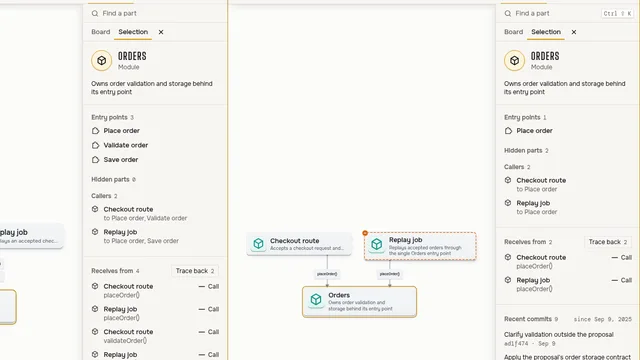
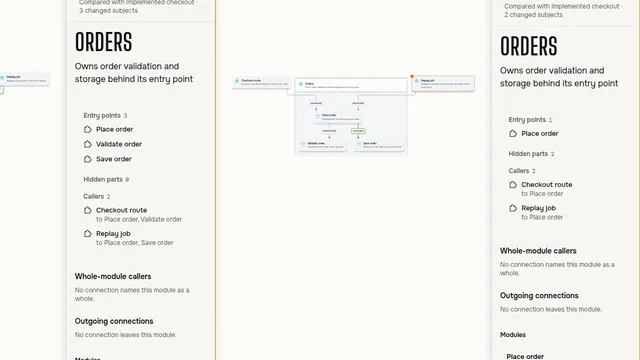
refactor(readme): publish canonical architecture demonstrations

diff --git a/scripts/readme-assets/narrated.ts b/scripts/readme-assets/narrated.ts
@@ -1,4 +1,4 @@
-// The narrated videos: one walkthrough recorded by `archboard semantic record`, narrated by the
+// The narrated videos: one walkthrough recorded by `archboard model record`, narrated by the
 // Codex voice, on a server that has the machine's Archboard Codex sign-in. The MP4 stays in the
 // scratch directory for a person to attach to the README's player: GitHub plays a video with
 // sound only from a user attachment, uploaded through its editor. The README's index thumbnail is
@@ -6,6 +6,8 @@
 
 import { existsSync, renameSync, rmSync } from "node:fs";
 import { join } from "node:path";
+
+import { ArchitectureCheckpointRetainSchema } from "@archboard/board/model";
 
 import { readTalk } from "@archboard/walkthrough/recorder";
 import { TALK_SAMPLE_RATE, type Talk } from "@archboard/walkthrough/talk";
@@ -21,8 +23,11 @@ import {
 	type MakeContext,
 	type Producer,
 	type TrackedVault,
+	type TakeServer,
 	// oxlint-disable-next-line archboard/absolute-imports -- scripts/ has no # imports; sibling imports stay relative
 } from "./kit.ts";
+// oxlint-disable-next-line archboard/absolute-imports -- scripts/ has no # imports; sibling imports stay relative
+import { readModel, modelResult } from "./model-authoring.ts";
 
 /** The lower-left 16:9 part of a 1920x1080 recording, where the step's caption sits. */
 const CAPTION_CROP: Crop = { x: 0, y: 360, width: 1280, height: 720 };
@@ -32,8 +37,8 @@ interface NarratedSpec {
 	/** The asset's name, which also names the MP4. */
 	readonly name: string;
 	readonly vault: TrackedVault;
-	readonly board: string;
-	readonly variant?: string;
+	/** A retained proposal, or omit to capture current architecture before recording. */
+	readonly checkpoint?: string;
 	readonly walkthrough: string;
 	/** The index thumbnail: the step it shows, a moment into it. */
 	readonly thumbnail?: { readonly file: string; readonly step: number };
@@ -85,23 +90,38 @@ function videoOf(spec: NarratedSpec): string {
 }
 
 /**
- * The CLI arguments that pick the walkthrough.
- * @param spec The video.
- * @returns The board, the variant and the walkthrough.
+ * Capture current architecture unless the recipe already names an immutable proposal.
+ * @param server The copied vault and its restored archive.
+ * @param spec The exact recording recipe.
+ * @returns The checkpoint that the recorder must read.
  */
-function walkthroughArguments(spec: NarratedSpec): readonly string[] {
-	return [
-		spec.board,
-		...(spec.variant === undefined ? [] : ["--variant", spec.variant]),
-		"--walkthrough",
-		spec.walkthrough,
-	];
+async function recordingCheckpoint(server: TakeServer, spec: NarratedSpec): Promise<string> {
+	if (spec.checkpoint !== undefined) return spec.checkpoint;
+	const model = await readModel(server);
+	const retained = ArchitectureCheckpointRetainSchema.parse(
+		modelResult(
+			await server.cli([
+				"model",
+				"retain",
+				"--operation-id",
+				crypto.randomUUID(),
+				"--writer",
+				"readme",
+				"--expect-revision",
+				model.revision.digest,
+				"--doing",
+				"Retain the narrated README reading",
+			]),
+		),
+	);
+	if (!retained.success) throw new Error(JSON.stringify(retained));
+	return retained.checkpoint.id;
 }
 
 /**
  * Record the walkthrough, or render the talk its last recording kept again, and cut what the README
  * shows from the video. A replay draws the frames again with today's renderer and spends no Codex
- * usage, since the voice and the board are in the kept talk. A new recording is made beside the kept
+ * usage, because the kept talk contains the voice and architecture. A new recording is made beside the kept
  * talk and replaces it only once it is whole, so a refused or failed recording keeps the old one.
  * @param spec The video.
  * @param context What the producer is given.
@@ -123,11 +143,14 @@ async function record(spec: NarratedSpec, context: MakeContext): Promise<void> {
 	await holding(server.stop, async () => {
 		await server.cli(
 			context.replay
-				? ["semantic", "replay", talk, "--out", video]
+				? ["model", "replay", talk, "--out", video]
 				: [
-						"semantic",
+						"model",
 						"record",
-						...walkthroughArguments(spec),
+						"--checkpoint",
+						await recordingCheckpoint(server, spec),
+						"--walkthrough",
+						spec.walkthrough,
 						"--theme",
 						"dark",
 						"--talk",
@@ -150,7 +173,6 @@ async function record(spec: NarratedSpec, context: MakeContext): Promise<void> {
  * @returns The producer.
  */
 function narratedProducer(spec: NarratedSpec): Producer {
-	const variant = spec.variant === undefined ? "" : ` (${spec.variant})`;
 	return {
 		kind: "narrated",
 		codex: true,
@@ -159,7 +181,7 @@ function narratedProducer(spec: NarratedSpec): Producer {
 		needs: ["chromium", "ffmpeg", "codex"],
 		plan: [
 			`Start an Archboard server over a copy of ${spec.vault} that uses this machine's Archboard Codex sign-in unless it is a --replay, which uses none.`,
-			`Record "${spec.walkthrough}" on "${spec.board}"${variant} with archboard semantic record --theme dark, narrated by the Codex voice; this spends Codex usage. With --replay, render the talk that the last recording kept again with archboard semantic replay instead, which spends none. The MP4 stays in the scratch directory, to attach to the README by hand with gh attach.`,
+			`Record "${spec.walkthrough}" from its exact retained canonical checkpoint with archboard model record --theme dark, narrated by the Codex voice; this spends Codex usage. With --replay, render the talk that the last recording kept again with archboard model replay instead, which spends none. The MP4 stays in the scratch directory, to attach to the README by hand with gh attach.`,
 			...(spec.thumbnail === undefined
 				? []
 				: [`Cut ${spec.thumbnail.file} from step ${spec.thumbnail.step + 1} and its caption.`]),

diff --git a/scripts/readme-assets/evidence.ts b/scripts/readme-assets/evidence.ts
@@ -97,9 +97,10 @@ async function selectPart(page: Page, id: string, pane = "A"): Promise<void> {
  * @param pane The pane that owns the inspector.
  */
 async function pinInspector(page: Page, pane = "A"): Promise<void> {
-	await page.click(
-		`[data-slot='pane-stage'][data-pane='${pane}'] [data-slot='semantic-sidebar-pin']`,
-	);
+	const control = `[data-slot='pane-stage'][data-pane='${pane}'] [data-slot='semantic-sidebar-pin']`;
+	if (await page.evaluate(`document.querySelector(${JSON.stringify(control)}) !== null`)) {
+		await page.click(control);
+	}
 	await Bun.sleep(500);
 	await fit(page);
 	await Bun.sleep(900);
@@ -134,6 +135,7 @@ async function filmCode(server: TakeServer, browser: Browser, fixture: Fixture):
 				`The example did not produce its resolved missing-call warning: ${checked.stderr}`,
 			);
 		await terminal.done(finding.code, finding.message, `${evidence.path}:${evidence.line}`);
+		await page.click("[data-pane='A'] [data-slot='semantic-sidebar-toggle']");
 		await page.waitFor(
 			"document.querySelector('[data-slot=code-warning-count]')?.getAttribute('data-count') === '1'",
 			"one visible code warning",

diff --git a/scripts/readme-assets/hero.ts b/scripts/readme-assets/hero.ts
@@ -181,12 +181,17 @@ const hero: Producer = {
 				});
 				const state = result.target.state!;
 				const compared = ArchitectureModelReadSchema.parse(
-					modelResult(await commands.cli(["model", "compare", "--state", state])),
+					modelResult(
+						await commands.cli(["model", "compare", "--state", state, "--against", "current"]),
+					),
 				);
 				if (!compared.success) throw new Error(JSON.stringify(compared));
-				const changed =
-					compared.comparison?.subjects.filter((subject) => subject.kind !== "unchanged").length ??
-					0;
+				if (compared.comparison === undefined)
+					throw new Error("The proposal comparison is missing.");
+				const changed = compared.comparison.subjects.filter(
+					(subject) => subject.kind !== "unchanged",
+				).length;
+				if (changed === 0) throw new Error("The authored proposal changes no subjects.");
 				await terminal.say(`${changed} subjects differ from current architecture.`);
 				await commands.cli(["browser", "show", MODEL, "--state", state, "--pane", "A"]);
 				await page.atRest();

diff --git a/scripts/readme-assets/assets.ts b/scripts/readme-assets/assets.ts
@@ -30,7 +30,6 @@ const PRODUCERS: Readonly<Record<string, Producer>> = {
 	explainer: narratedProducer({
 		name: "explainer",
 		vault: ".archboard/vault",
-		board: "Archboard",
 		walkthrough: "Read this board",
 	}),
 	plan,
@@ -41,8 +40,8 @@ const PRODUCERS: Readonly<Record<string, Producer>> = {
 	"pr-walkthrough": narratedProducer({
 		name: "pr-walkthrough",
 		vault: "examples/web-shop",
-		board: "Web shop",
-		variant: "Queued fulfilment",
+		// The portable example archive retains this exact Queued fulfilment reading.
+		checkpoint: "f4ae77d823d935570198b3c0be53dd1803db8aba",
 		walkthrough: "Why checkout stops waiting",
 		thumbnail: { file: "docs/readme/idx-voice.webp", step: 1 },
 	}),
@@ -55,7 +54,6 @@ const PRODUCERS: Readonly<Record<string, Producer>> = {
 	newcomer: narratedProducer({
 		name: "newcomer",
 		vault: "examples/web-shop",
-		board: "Inventory service",
 		walkthrough: "How stock is reserved",
 		thumbnail: { file: "docs/readme/idx-newcomer.webp", step: 4 },
 	}),

diff --git a/README.md b/README.md
@@ -18,7 +18,7 @@
 
 </div>
 
-<img alt="On the left: the commands that a coding agent runs for this request. It claims the Web shop board, branches a proposal, edits it and compares it with today. On the right: the browser pane shows the claim and then redraws the board as the proposal. It shows new parts in green and a moved call in orange. The removed timeout guard is a red ghost." src="https://github.com/user-attachments/assets/2380c2e3-cb45-4a3f-9efd-e246c848c5df" width="100%">
+<img alt="The CLI reads and claims the shop architecture, creates one proposal, releases its claim, and compares 41 changed subjects with current architecture. The browser shows the proposal with new modules in green and changed or removed relationships marked." src="https://github.com/user-attachments/assets/4ecfeda7-e742-4b4a-834c-6159053c8227" width="100%">
 
 <p align="center"><sub>Filmed live against a real Archboard server. The terminal on the left replays the commands an agent runs for this request, and each one ran against the server as shown. The pane on the right is the real browser, redrawing on every write. Nothing here was dragged into place.</sub></p>
 
@@ -63,11 +63,11 @@ A proposal starts with a map of what exists. Archboard brings code, module bound
 
 ### Find where the map and the code disagree
 
-Give each part a link to its file or a named function, class, or value. A relationship can cite the source that supports it. With `archboard check code`, your agent finds broken source links, relationships drawn backwards, and dependencies between mapped parts that the board leaves out.
+Give each part a link to its file or a named function, class, or value. A relationship can cite the source that supports it. With `archboard check code`, your agent finds broken source links, relationships drawn backwards, and dependencies between mapped parts that the architecture leaves out.
 
 Warnings mark the affected parts and relationships in the canvas. Select a warning to read the finding and open its source when available. Each piece of source evidence says whether analysis resolved it or matched it only by name.
 
-<img src="https://github.com/user-attachments/assets/04b20cce-5866-46d1-8557-3200f16b7800" width="100%" alt="The code check finds a resolved call from Place order to Save order that the example board leaves out. Selecting its warning opens the source evidence in the inspector. The terminal shows the actual call in the source file.">
+<img src="https://github.com/user-attachments/assets/a2281f7d-9678-47c7-a3fc-ae922012b189" width="100%" alt="The code check finds a resolved call from Place order to Save order that the example architecture leaves out. Selecting its warning opens the source evidence in the inspector. The terminal shows the actual call in the source file.">
 
 <p align="center"><sub>A small example checkout with real analysis results. The terminal replays the command and summarizes its answer. The live browser selects the warning, and the source excerpt shows the missing call.</sub></p>
 
@@ -79,30 +79,30 @@ A module's interface on the map is what its outside callers reach. Archboard sho
 
 Compare competing proposals side by side. The comparison lists interface changes before internal changes, so you can see which design asks more of its callers. The code check reports callers that reach parts the module does not expose. It identifies exposed names with no outside use in the checked code.
 
-<img src="https://github.com/user-attachments/assets/5a1d15cc-66e4-4927-95f2-b966026436ba" width="100%" alt="Two proposals for the same checkout example. Selecting Orders in each opens its interface inspector. Entry per job exposes three parts. One entry point exposes Place order and keeps two parts hidden.">
+<img src="https://github.com/user-attachments/assets/3720e0b1-d5d8-4a28-ae95-5d07ca006736" width="100%" alt="Two proposals for the same checkout example. Opening Orders in each reveals its interface. Entry per job exposes three parts. One entry point exposes Place order and keeps two parts hidden.">
 
 <p align="center"><sub>The same six parts, with different boundaries. Orders exposes three entry points on the left. On the right, one entry point keeps two internal parts hidden. Both inspectors come from the live browser.</sub></p>
 
 ### Read the change through the architecture
 
-Git records changes to files. Archboard maps their commits onto the parts of your system. See which parts change most often and which repeatedly change together, including pairs that the board does not connect. Pick a part to read its recent commits and the parts that change with it.
+Git records changes to files. Archboard maps their commits onto the parts of your system. See which parts change most often and which repeatedly change together, including pairs without an authored relationship. Pick a part to read its recent commits and the parts that change with it.
 
-Set a branch's commits against its proposal. See which parts the commits changed, which parts the plan named, and where the two differ. Your agent can spot changes to mapped parts outside the plan before it adopts the proposal. Archboard also reports commits to bound files since the board last described them, so you can choose what to inspect next.
+Set a branch's commits against its proposal. See which parts the commits changed, which parts the plan named, and where the two differ. Your agent can spot changes to mapped parts outside the plan before it adopts the proposal. Archboard also reports commits to bound files since the selected architecture described them, so you can choose what to inspect next.
 
-<img src="https://github.com/user-attachments/assets/dbe1c866-8f30-4693-adb1-11e2cd707df2" width="100%" alt="The inspector shows recent commits and a pair of parts that change together. The terminal reports seven shared commits for Validate order and Save order. A branch comparison then lists planned changes, changes outside the plan, and planned parts with no code change.">
+<img src="https://github.com/user-attachments/assets/522c8c86-1ff7-4315-9b30-3c926e733e08" width="100%" alt="The inspector shows recent commits and a pair of parts that change together. The terminal reports seven shared commits for Validate order and Save order. A branch comparison then lists planned changes, changes outside the plan, and planned parts with no code change.">
 
-<p align="center"><sub>Fixed example commits make this demonstration repeatable. Validate order and Save order change together in seven commits. The branch also changes Validate order outside the proposal. The terminal summarizes real Git analysis beside the live board.</sub></p>
+<p align="center"><sub>Fixed example commits make this demonstration repeatable. Validate order and Save order change together in seven commits. The branch also changes Validate order outside the proposal. The terminal summarizes real Git analysis beside the live architecture.</sub></p>
 
 ## Plan the next architecture with your agent
 
-See a change before anyone builds it. Ask your agent for one and you get a **proposal**: the same board, redrawn as its difference from what exists. New parts arrive green, changed ones orange, and removed ones stay on the page as red ghosts. A call that moves is shown as one change, not as a deletion beside an addition.
+See a change before anyone builds it. Ask your agent for one and you get a **proposal**: a proposed architecture, drawn against what exists. New parts arrive green, changed ones orange, and removed ones stay on the page as red ghosts. A call that moves is shown as one change, not as a deletion beside an addition.
 
-<img src="https://github.com/user-attachments/assets/8de02233-e1de-4266-933c-046095c2aa05" width="100%" alt="A board that nobody has built yet, marked not built, opened in two panes. The left pane turns into the Nightly batch proposal. The right pane turns into the Live events proposal. Both are marked against their shared starting point.">
+<img src="https://github.com/user-attachments/assets/d80b0379-ec7d-42ba-ba01-00107b98c3b0" width="100%" alt="An independent planning draft opens in two panes. The left pane turns into the Nightly batch proposal. The right pane turns into the Live events proposal. Both are marked against their shared starting point.">
 
-<p align="center"><sub>Two competing proposals for a recommendations service that does not exist yet, one per pane. The header names the proposal in the focused pane and says <code>not built</code>: nothing here pretends to exist before somebody adopts it.</sub></p>
+<p align="center"><sub>Two competing proposals for a recommendations service that does not exist yet, one per pane. Each header names its draft. Both compare against the same planning root, without adding the proposed service to current architecture.</sub></p>
 
-- **Competing options, side by side**. Branch two drafts from one starting point and open them in two panes. `archboard semantic compare` lists every part and relationship that differs.
-- **Honest about what exists**. A board for a system that nobody has built yet is marked `not built`. It stays that way until your agent adopts a proposal after it ships.
+- **Competing options, side by side**. Branch two drafts from one starting point and open them in two panes. `archboard model compare --state "Nightly batch" --against "Starting point"` reports the changes.
+- **Honest about what exists**. Planning drafts remain separate from current architecture. Your agent adopts a draft only after it ships.
 - **Proposals keep up**. When today's architecture changes under an open proposal, the proposal is brought up to date. Where both changed the same thing, the agent is asked to settle it. Neither side wins silently.
 
 ```text
@@ -130,7 +130,7 @@ Most diagrams show what changed. This one also remembers why. When a proposal sh
 A **walkthrough** is a short tour of a board that your agent writes: a few steps, each with a heading, a point, and the parts it is about. Press **Narrate** and the Codex voice explains each step as it reaches your screen. The camera glides to the parts that matter, and the rest fades back. Or let one command film the whole talk:
 
 ```bash
-archboard semantic record "Web shop" --variant "Queued fulfilment" --theme dark --out pr-128.mp4
+archboard model record --checkpoint <checkpoint-id> --walkthrough "Why checkout stops waiting" --theme dark --out pr-128.mp4
 gh pr comment 128 --attach pr-128.mp4 --body "A narrated walkthrough of this change."   # gh 2.99 or newer
 ```
 
@@ -138,7 +138,7 @@ gh pr comment 128 --attach pr-128.mp4 --body "A narrated walkthrough of this cha
 
 https://github.com/user-attachments/assets/025e7d76-2ad5-43b5-82d9-8a587994243f
 
-<p align="center"><sub>Each video is what <code>archboard semantic record</code> wrote.</sub></p>
+<p align="center"><sub>Each video is an Archboard recording.</sub></p>
 
 - **Pull-request videos**. Your agent maps the code before the change, branches a proposal for the pull request, and writes three to six steps for its reviewers. The talk runs one to three minutes, small enough to attach to the pull request.
 - **Paced by the voice**. Each time the voice finishes a step, the recording moves on. There is no timeline to edit and no silent slide.
@@ -152,7 +152,7 @@ Ask "what happens as a shopper pays?" and get the answer as a sequence diagram: 
   <img alt="Sequence diagram 'Place an order': the storefront posts an order. Place order loads the basket, starts a 10 second clock, reserves the items and charges the card. It writes the paid order and sends the receipt up to three times. Then it answers the storefront." src="docs/readme/sequence-light.svg" width="100%">
 </picture>
 
-<p align="center"><sub>An SVG drawn by <code>archboard semantic render "Web shop" --view "Place an order" --out place-an-order.svg</code>. The pulse that travels down the exchange is part of the file.</sub></p>
+<p align="center"><sub>An SVG drawn by <code>archboard model render --flow "Place an order" --grammar sequence --out place-an-order.svg</code>. The pulse that travels down the exchange is part of the file.</sub></p>
 
 ```text
 Add a sequence diagram of what happens when a shopper places an order, from the storefront to the receipt email.
@@ -175,9 +175,11 @@ I'm new here. Walk me through what happens to stock when a shopper presses Pay.
 
 ## Zoom from the system into a service
 
-One map, from the whole system down to the file. Boards link to boards: hover a part that has its own board and a tip offers to open it. Double-click and the view dives in, with a breadcrumb back. Parts are bound to their code. **Open code** takes you to a file or a named function or class in VS Code, Cursor, Zed or on GitHub. A system spread over several repositories can share one vault, with each part bound to its own repository.
+Open a module to see its children and boundary connections. Open a child to continue deeper. Breadcrumbs lead back through the same model. Navigation changes your scope without copying modules or creating another document.
 
-<img src="https://github.com/user-attachments/assets/c1c1ea48-4136-455b-9b27-bb0773d4bd62" width="100%" alt="The Web shop board: the pointer rests on Inventory service, and a tip says double-click to open it. The view dives into the Inventory service board with the breadcrumb Web shop › Inventory service.">
+Modules can link to source files, functions, or classes. **Open code** follows that binding. Explicit references connect modules across repository models without copying their definitions.
+
+<img src="https://github.com/user-attachments/assets/3d839b09-8080-4a7f-8f80-b624d41015a3" width="100%" alt="The reader opens Inventory service, then Stock API, within the same Shop model. Breadcrumbs return to the repository roots.">
 
 ## Ask your architecture
 
@@ -375,7 +377,7 @@ In a vault: a directory of `.semantic.json` files, one per board, holding every 
 <details><summary><b>Does the diagram stay in sync with the code?</b></summary>
 <br>
 
-Your agent keeps it in sync. `archboard check code` reports broken source evidence, missing dependencies between mapped parts, and disagreements between drawn module boundaries and code. It also shows which parts have commits to their bound files since the board last described them. Your agent reads the findings and updates the map. Archboard never rewrites a board on its own.
+Your agent keeps it in sync. `archboard check code` reports broken source evidence, missing dependencies between mapped parts, and disagreements between drawn module boundaries and code. It also shows which parts have commits to their bound files since the selected architecture described them. Your agent reads the findings and updates the map. Archboard never rewrites a board on its own.
 </details>
 
 <details><summary><b>Is the traffic animation real traffic?</b></summary>

diff --git a/backlog/tasks/task-549.24 - Make-canonical-models-the-default-and-retire-live-board-paths.md b/backlog/tasks/task-549.24 - Make-canonical-models-the-default-and-retire-live-board-paths.md
@@ -5,7 +5,7 @@ status: In Progress
 assignee:
   - '@codex-parent'
 created_date: '2026-10-26T05:26:00Z'
-updated_date: '2026-10-28T01:18:00Z'
+updated_date: '2026-10-28T01:21:00Z'
 labels:
   - ready-for-agent
 dependencies:
@@ -272,4 +272,6 @@ Bounded checkpoint metadata repair reproduces the exact private-field decoder fa
 Final bounded metadata evidence: 27 affected tests pass with 129 assertions. This includes 4 local-reference runtime cases, 2 CLI/HTTP reference cases, and 21 existing checkpoint/foreign-reference cases. Source TypeScript passes after the final test fixture change. Scoped source lint, test lint, formatting, and git diff whitespace pass without warnings. Both strict decoder failures were reproduced before the one-line conversion repair. Private reference ancestry and signed retention remain covered by existing owners. Signed implementation commit is 4d50a05bf4b6ac20ad47d3d963476fec5955e29c. Latest local feat/canonical-module-model remains signed b14f3a759 and is already included. A final simplification pass keeps the existing conversion and strict schemas, with no new abstraction or public API. No full gate, model evaluation, source-vault write, parent scratch write, UI work, server restart, push, or PR runs. Final contract and backend evidence are task-549.24-checkpoint-metadata-contract.md and task-549.24-checkpoint-metadata-backend.md beside the blocker. Parent and .24 status, assignee, and acceptance remain unchanged.
 
 While porting narrated recipes, the parent reproduced a second private metadata leak through the existing exact-narrative-target public owner. Strict retention decoding failed on checkpoint.narrativeDependencies. One line in the existing checkpointMetadata conversion now excludes that private field beside referenceDependencies. Stored target ancestry and all public schemas stay unchanged. RED then GREEN recorded; all 5 walkthrough cases/33 assertions, both type projects, focused source/test lint, format and diff checks pass. Existing Board persistence NyesaQPQ/Bd4GPG6d remains the affected architecture subject. No new abstraction or proposal needed.
+
+Canonical hero now explicitly compares against current and requires a nonempty comparison; the real clip shows 41 changed subjects. All three real code/interface/Git-history producers pass after using visible sidebar controls and optional pinning for floating panels. Parent inspected thumbnails, full scene captures, and encoded first frames. Hero, code-evidence, module-interfaces, git-history, and the earlier accepted plan/drill clips are uploaded once and linked in README. Narrated recipes use model record/replay, retain current before recording, or name an explicit proposal checkpoint. The imported Queued fulfilment checkpoint f4ae77d823d935570198b3c0be53dd1803db8aba resolves all five beats ready through the public reader. No new voice/model recording was run. Source/frontend types, scoped lint and format pass. Root migration, history producer, narration refresh, final integration gate/review/PR remain open.
 <!-- SECTION:NOTES:END -->
